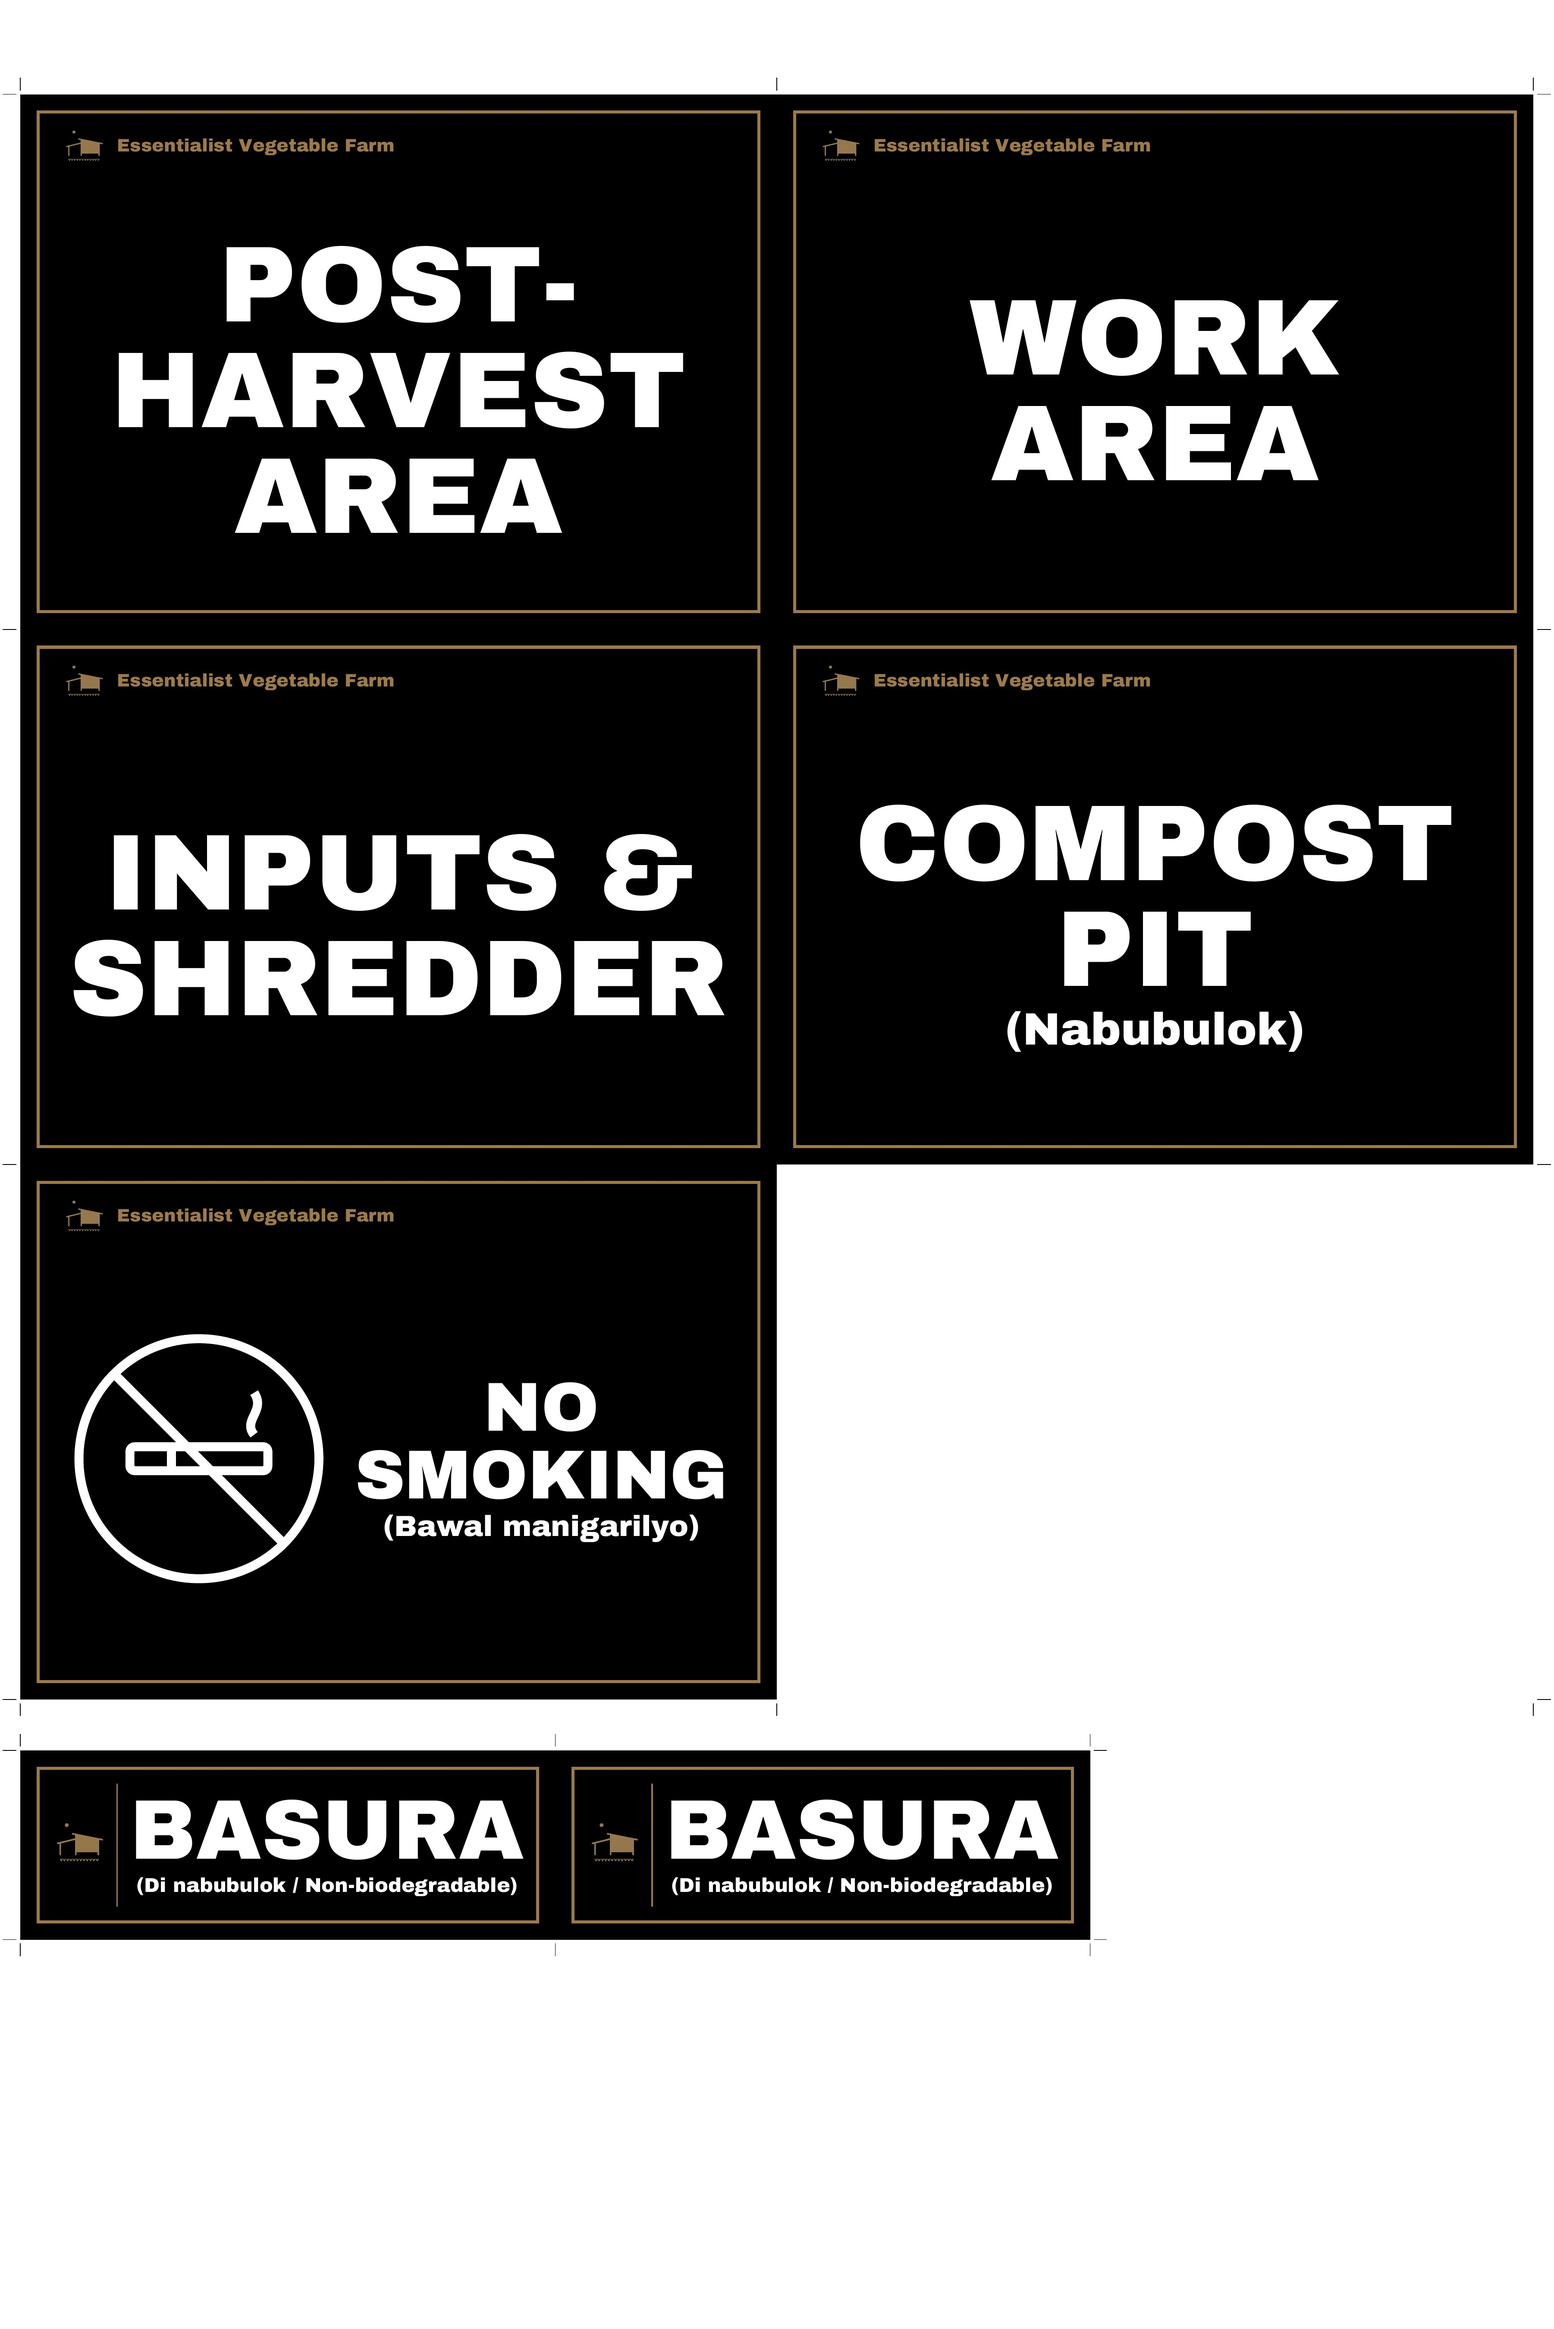
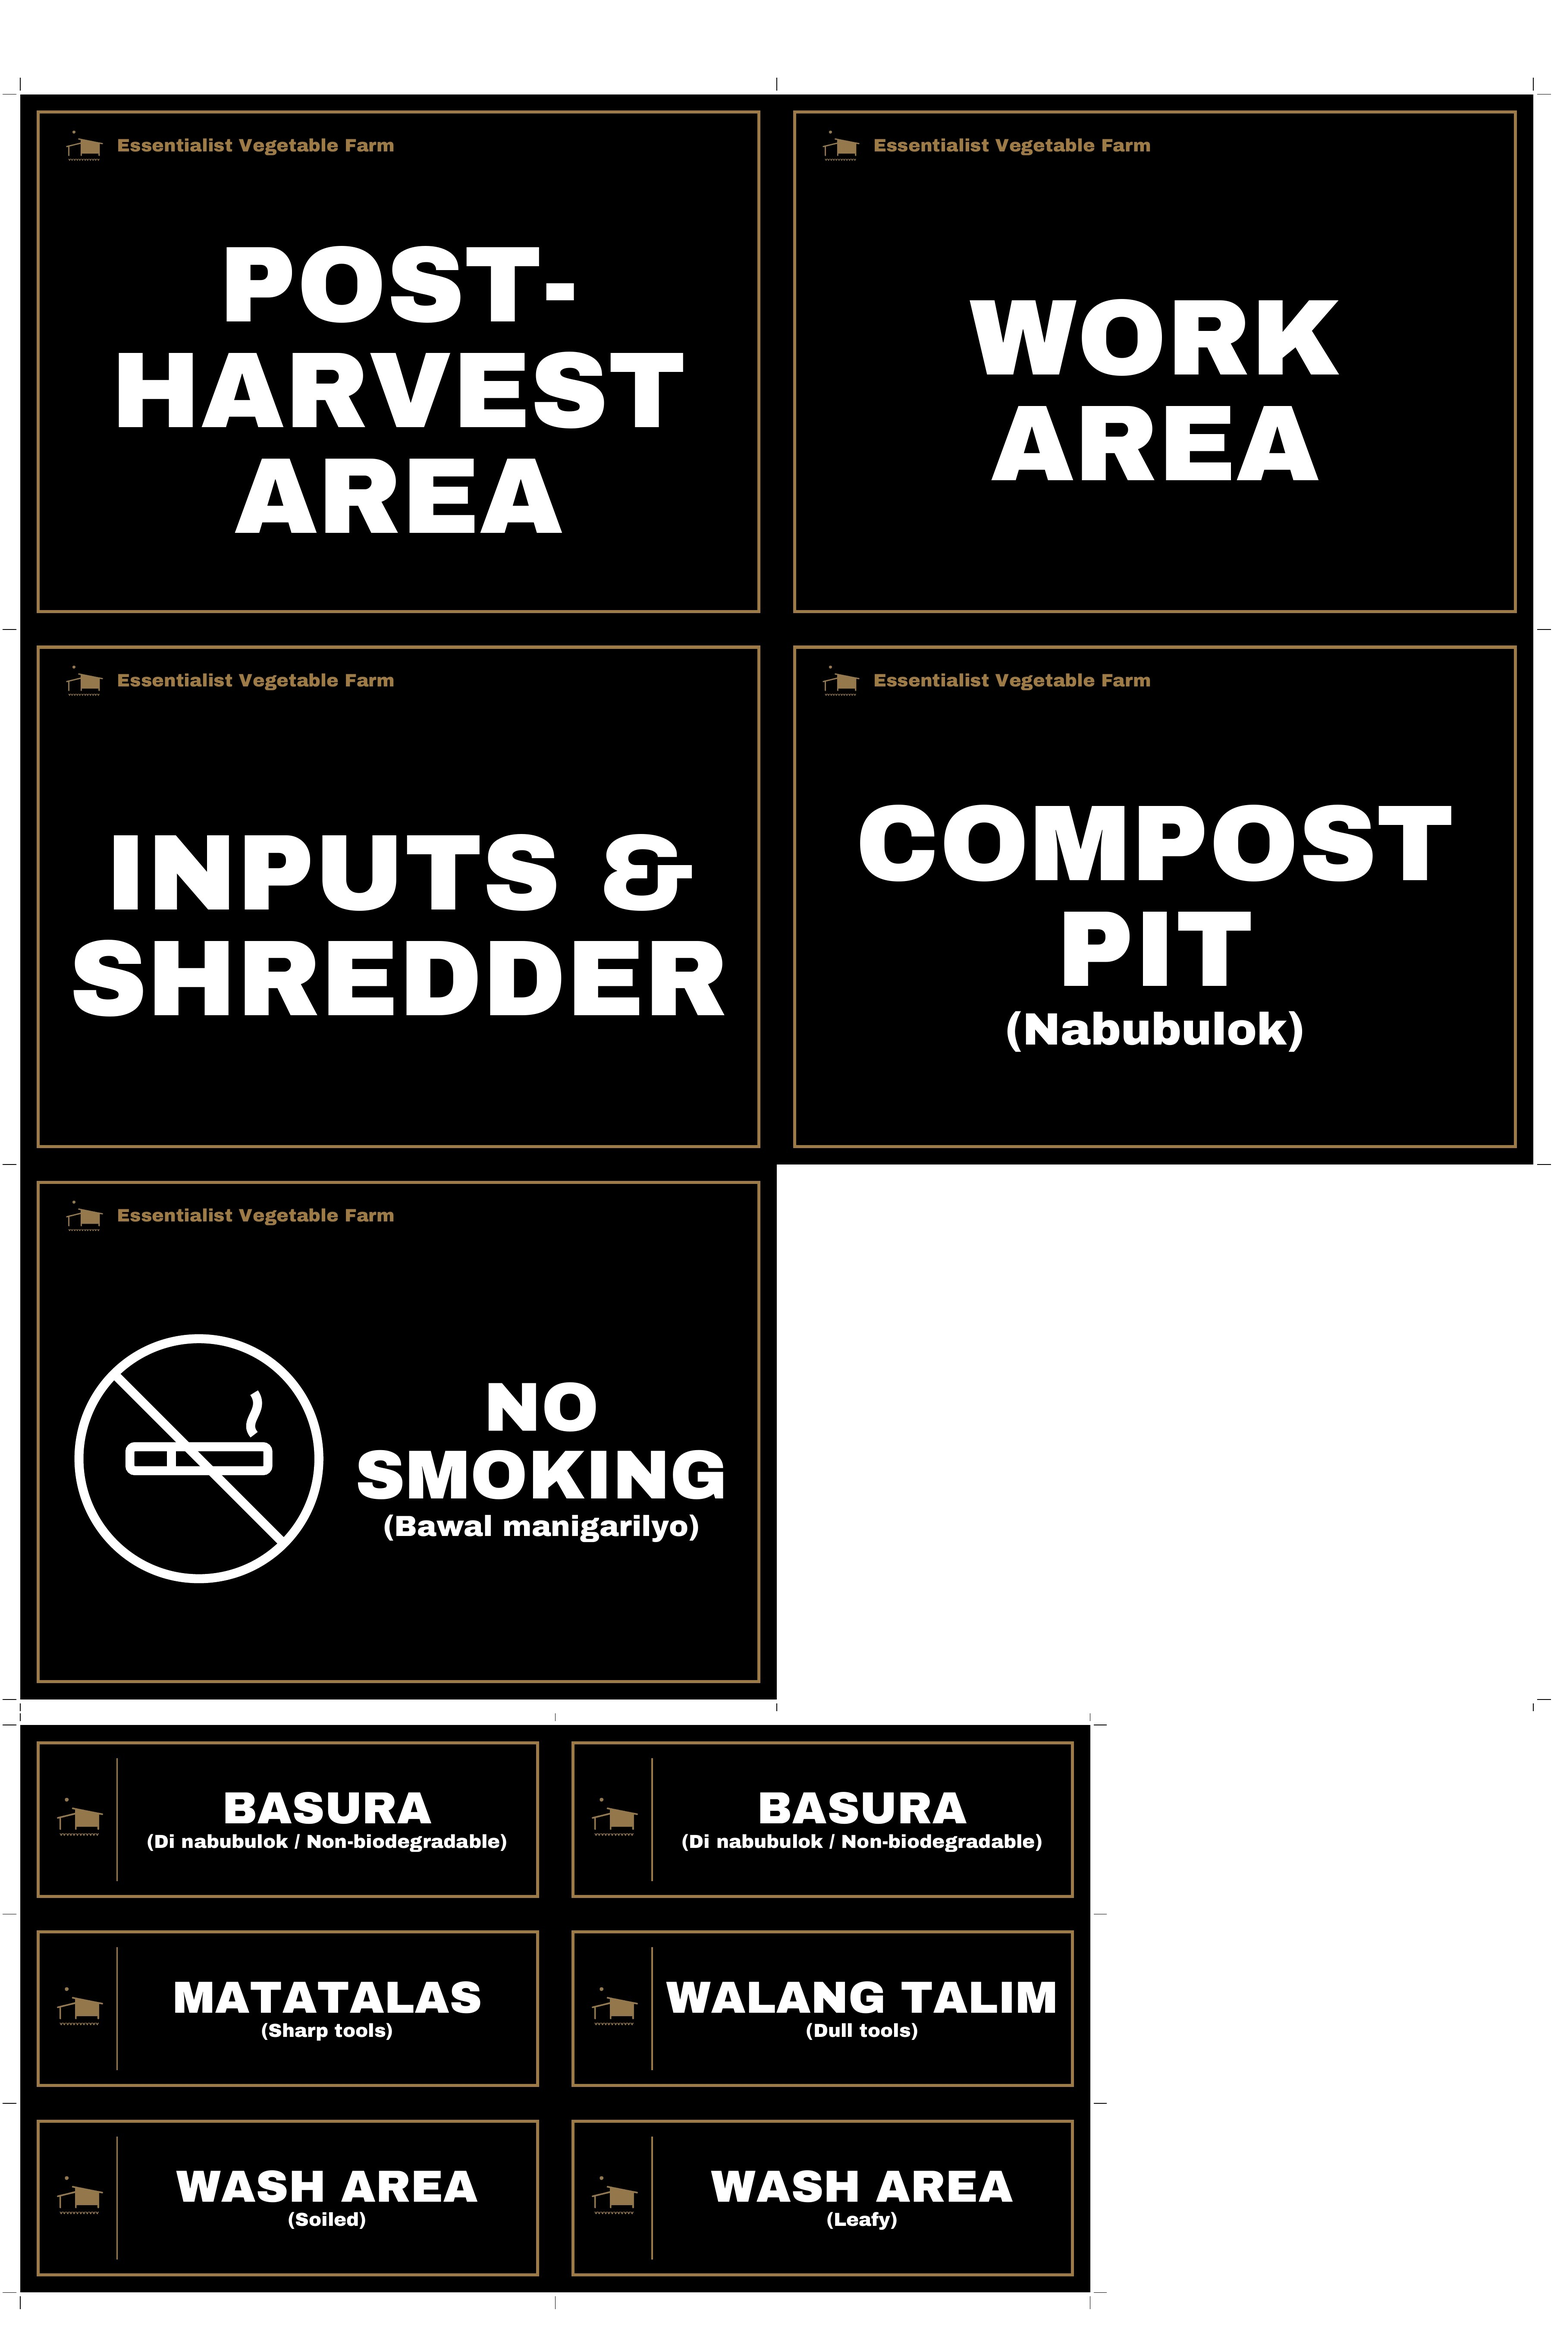
Small labels: Matatalas, Walang talim, Wash area (Soiled/Leafy) + 2 Basura, on the 2 x 3 ft tarp
Claude-Session: https://claude.ai/code/session_01DMCAWJmjMbTBJyh2Zs3QXd

Changed region(s): [[0.0, 0.7158, 0.715, 0.9959]]

diff --git a/labels/make_area_signs.py b/labels/make_area_signs.py
@@ -474,5 +474,118 @@ def main2():
         print(tarp2(style))
 
 
+# ---- Small labels (quarter A4 crosswise, 210 x 74.25 mm), one shared letter size -------------
+SMALL = [
+    dict(lines=["BASURA"], sub="(Di nabubulok / Non-biodegradable)"),
+    dict(lines=["BASURA"], sub="(Di nabubulok / Non-biodegradable)"),
+    dict(lines=["MATATALAS"], sub="(Sharp tools)"),
+    dict(lines=["WALANG TALIM"], sub="(Dull tools)"),
+    dict(lines=["WASH AREA"], sub="(Soiled)"),
+    dict(lines=["WASH AREA"], sub="(Leafy)"),
+]
+
+
+def _small_box():
+    m = 7 * mm
+    logo_w = 20 * mm
+    x = m + 6 * mm + logo_w + 5 * mm
+    bx = x + 5 * mm
+    return bx, m + 5 * mm, QW - m - 5 * mm - bx, QH - 2 * m - 10 * mm
+
+
+def _small_sizes():
+    bx, by, bw, bh = _small_box()
+    cap = 0.72
+    size = min(fit(s["lines"][0], bw, 200) for s in SMALL)
+    sub = min(fit(s["sub"], bw, size * 0.42) for s in SMALL)
+    while size * cap + size * 0.24 + sub * cap > bh:
+        size -= 1
+        sub = min(sub, size * 0.42)
+    return size, sub
+
+
+SMALL_SIZE, SMALL_SUB = _small_sizes()
+
+
+def draw_small(c, s, style):
+    w, h = QW, QH
+    g, brand, _ = STYLES[style]
+    ground(c, w, h, style)
+    m = 7 * mm
+    logo_w = 20 * mm
+    logo_h = logo_w / L.LOGO_RATIO
+    c.drawImage(LOGOS[style], m + 6 * mm, h / 2 - logo_h / 2, logo_w, logo_h, mask="auto")
+    x = m + 6 * mm + logo_w + 5 * mm
+    c.setStrokeColor(brand)
+    c.setLineWidth(0.6 * mm)
+    c.line(x, m + 6 * mm, x, h - m - 6 * mm)
+    bx, by, bw, bh = _small_box()
+    cap = 0.72
+    total = SMALL_SIZE * cap + SMALL_SIZE * 0.24 + SMALL_SUB * cap
+    top = by + (bh + total) / 2
+    c.setFillColor(white)
+    c.setFont(F, SMALL_SIZE)
+    c.drawCentredString(bx + bw / 2, top - SMALL_SIZE * cap, s["lines"][0])
+    c.setFont(F, SMALL_SUB)
+    c.drawCentredString(bx + bw / 2, by + (bh - total) / 2, s["sub"])
+
+
+def tarp3(style):
+    SW, SH = 610 * mm, 914 * mm
+    X0 = (SW - 2 * A4W) / 2                # 8 mm sides
+    top = SH - 37 * mm
+    out = os.path.join(HERE, f"tarp-area-signs-2x3ft-{style}.pdf")
+    c = canvas.Canvas(out, pagesize=(SW, SH))
+    c.setTitle(f"Essentialist Vegetable Farm area signs and small labels - tarpaulin 2 x 3 ft ({style})")
+    for i, s in enumerate(SIGNS2):
+        col, row = i % 2, i // 2
+        place(c, X0 + col * A4W, top - (row + 1) * A4H, draw_sign2, s, style)
+    gb = top - 3 * A4H                     # bottom of the A4 grid
+    sy_top = gb - 10 * mm                  # small labels: 2 columns x 3 rows below
+    for i, s in enumerate(SMALL):
+        col, row = i % 2, i // 2
+        place(c, X0 + col * QW, sy_top - (row + 1) * QH, draw_small, s, style)
+    sb = sy_top - 3 * QH
+    c.setStrokeColor(black)
+    c.setLineWidth(0.3 * mm)
+    ln, off = 5 * mm, 1.5 * mm
+    side = X0 - off - 1 * mm
+    short = 3 * mm                          # marks in the 10 mm gap between blocks
+    for x in (X0, X0 + A4W, X0 + 2 * A4W):
+        c.line(x, top + off, x, top + off + ln)
+        c.line(x, gb - off, x, gb - off - short)
+    for y in (top, top - A4H, top - 2 * A4H, gb):
+        c.line(X0 - off, y, X0 - off - side, y)
+        c.line(SW - X0 + off, y, SW - X0 + off + side, y)
+    for x in (X0, X0 + QW, X0 + 2 * QW):
+        c.line(x, sy_top + off, x, sy_top + off + short)
+        c.line(x, sb - off, x, sb - off - ln)
+    for k in range(4):
+        y = sy_top - k * QH
+        c.line(X0 - off, y, X0 - off - side, y)
+        c.line(X0 + 2 * QW + off, y, X0 + 2 * QW + off + ln, y)
+    c.showPage()
+    c.save()
+    return out
+
+
+def main3():
+    for style in STYLES:
+        c = canvas.Canvas(os.path.join(HERE, f"area-signs-a4-{style}.pdf"), pagesize=(A4W, A4H))
+        c.setTitle(f"Essentialist Vegetable Farm area signs (A4, {style})")
+        for s in SIGNS2:
+            draw_sign2(c, s, style)
+            c.showPage()
+        c.save()
+        c = canvas.Canvas(os.path.join(HERE, f"small-labels-quarter-a4-{style}.pdf"), pagesize=(A4H, A4W))
+        c.setTitle(f"Essentialist Vegetable Farm small labels (quarter A4, {style})")
+        for p in range(0, len(SMALL), 4):    # 4 labels per A4 portrait page, cut crosswise
+            for k, s in enumerate(SMALL[p:p + 4]):
+                place(c, 0, A4W - (k + 1) * QH, draw_small, s, style)
+            c.showPage()
+        c.save()
+        print(tarp3(style))
+
+
 if __name__ == "__main__":
-    main2()
+    main3()
